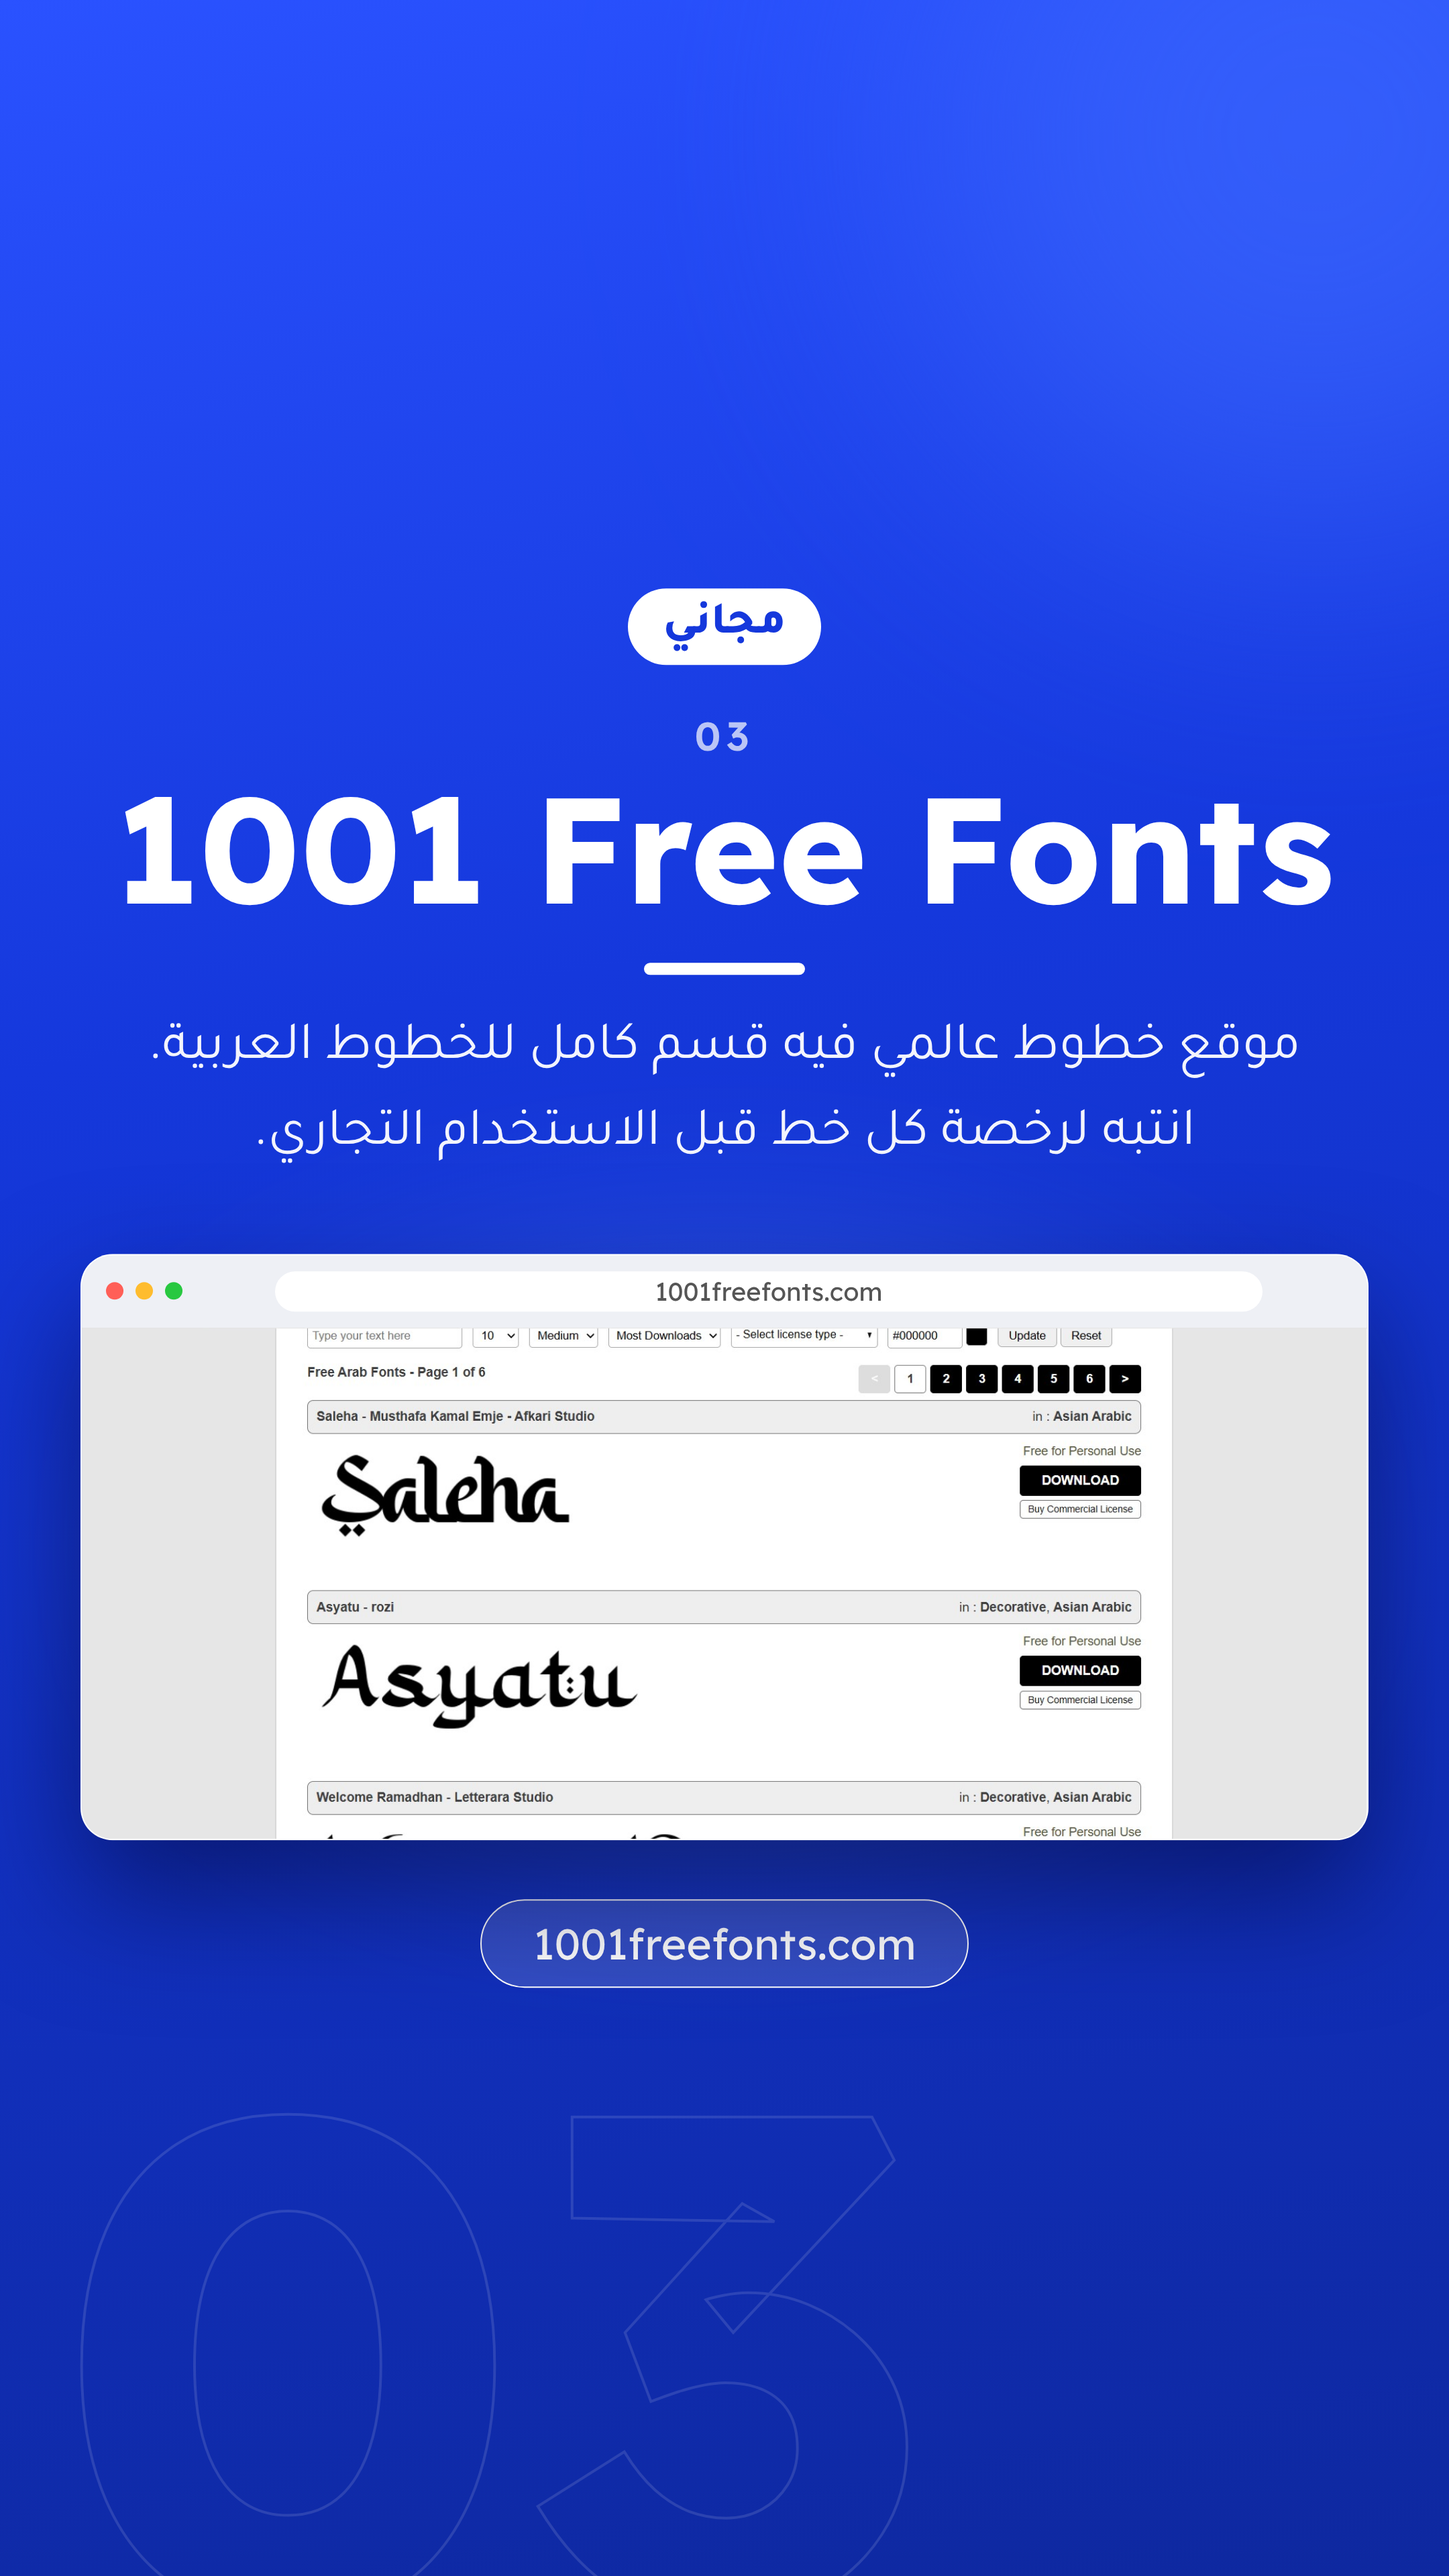
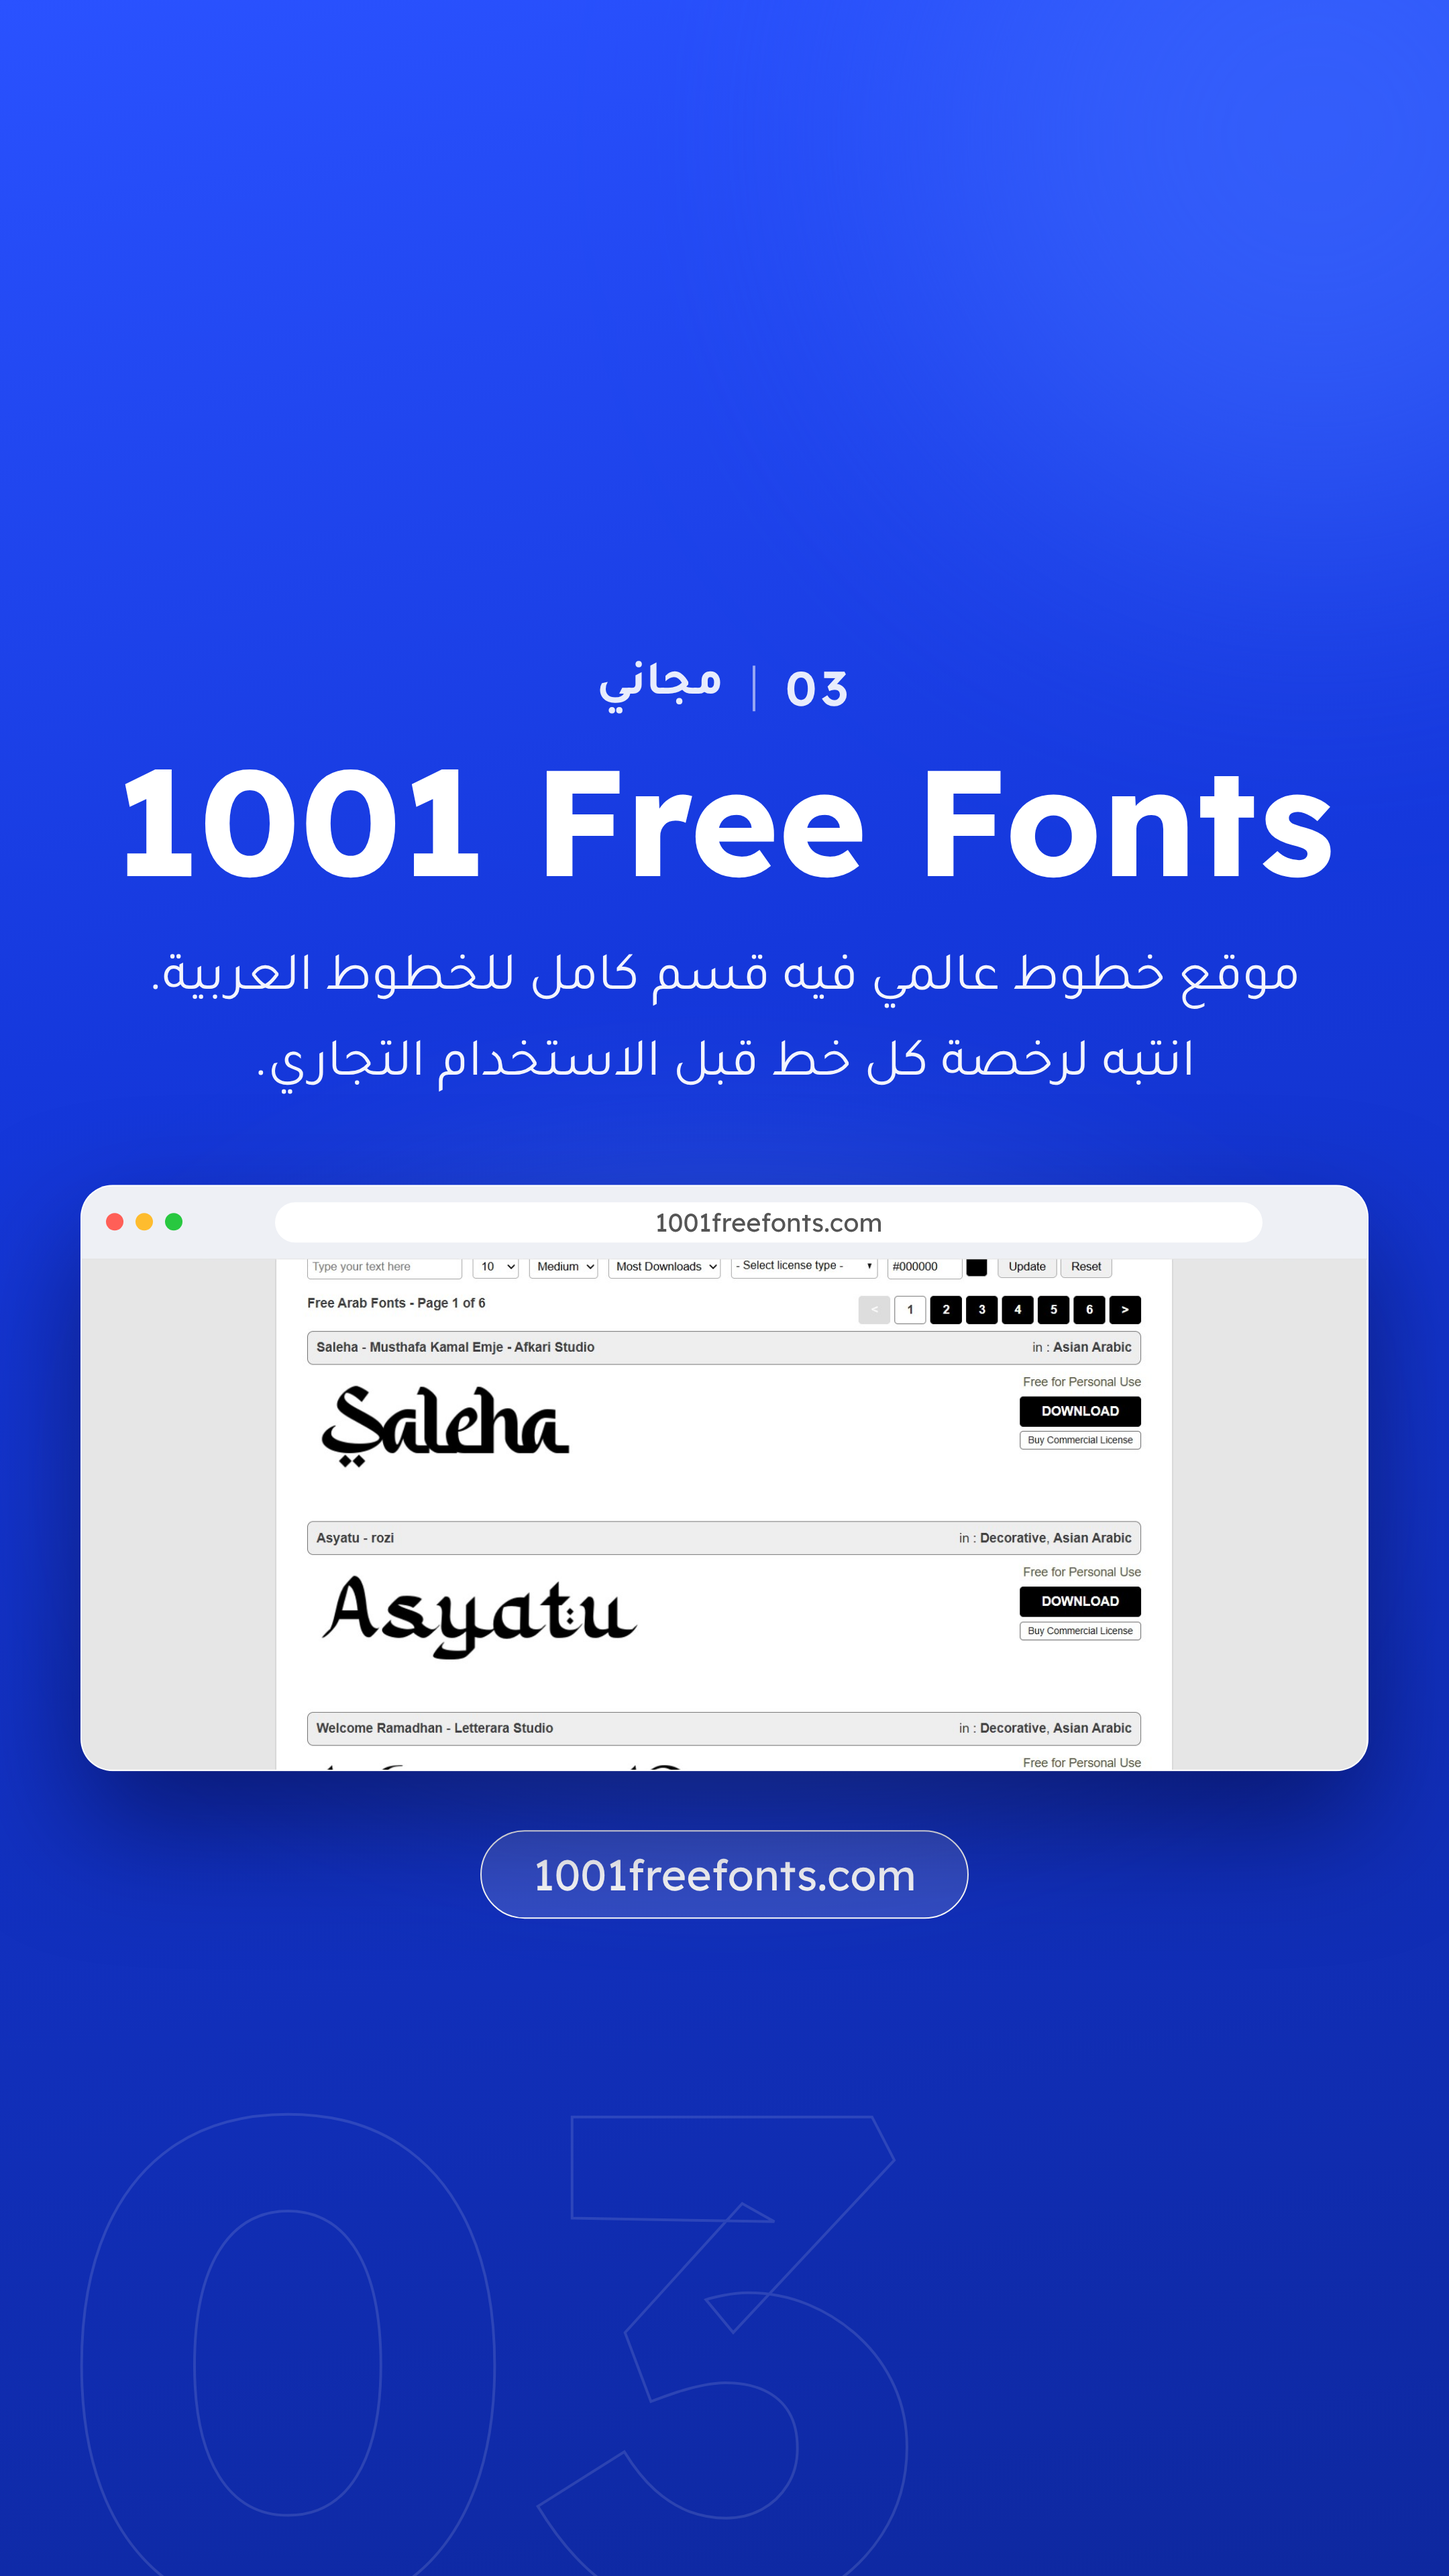
Remove title underline; replace price pill with inline number | label
Claude-Session: https://claude.ai/code/session_01HmuEa4Kje77rHMqSMNYbVn

Changed region(s): [[0.031, 0.2188, 0.9616, 0.7812]]

diff --git a/arabic-fonts-posts/build.py b/arabic-fonts-posts/build.py
@@ -54,8 +54,12 @@ SITE_CSS = """
 .wrap{position:absolute;top:50%;transform:translateY(-50%);left:60px;right:60px;display:flex;flex-direction:column;align-items:center;text-align:center}
 .tag{background:#fff;color:#1538dc;font-weight:800;font-size:34px;padding:8px 26px;border-radius:30px}
 .num{font-family:'Readex Pro';font-weight:600;font-size:30px;opacity:.7;margin-top:34px;letter-spacing:4px}
-h1{font-family:'Readex Pro';font-weight:700;font-size:112px;line-height:1.05;direction:ltr;margin-top:6px}
+h1{font-family:'Readex Pro';font-weight:700;font-size:112px;line-height:1.05;direction:ltr;margin-top:18px}
 .line{width:120px;height:9px;border-radius:6px;background:#fff;margin:26px 0 24px}
+.meta{display:flex;align-items:center;gap:22px;font-size:36px;font-weight:700;opacity:.9}
+.meta .mn{font-family:'Readex Pro';font-weight:600;letter-spacing:3px}
+.meta .sep{width:2px;height:34px;background:rgba(255,255,255,.6)}
+h1{margin-bottom:28px}
 .desc{font-size:40px;line-height:1.6;max-width:900px;opacity:.95}
 .shot{position:relative;width:100%;margin-top:56px}
 .shot:before{content:"";position:absolute;inset:10% 12%;background:#4f7dff;filter:blur(90px);opacity:.7;border-radius:50%;z-index:-1}
@@ -65,7 +69,7 @@ h1{font-family:'Readex Pro';font-weight:700;font-size:112px;line-height:1.05;dir
 def site_slide(s):
     return page(SITE_CSS, f"""<div class="clip"><div class="orb" style="width:600px;height:600px;background:#3f6bff;top:-200px;right:-200px;opacity:.6"></div>
 <div class="big">{s['n']}</div></div>
-<div class="wrap"><span class="tag">{s['tag']}</span><div class="num">{s['n']}</div><h1>{s['name']}</h1><div class="line"></div>
+<div class="wrap"><div class="meta"><span class="mn">{s['n']}</span><span class="sep"></span><span class="mt">{s['tag']}</span></div><h1>{s['name']}</h1>
 <div class="desc">{s['desc']}</div><div class="shot">{window(s)}</div><div class="url">{s['url']}</div></div>""")
 
 def outro():
